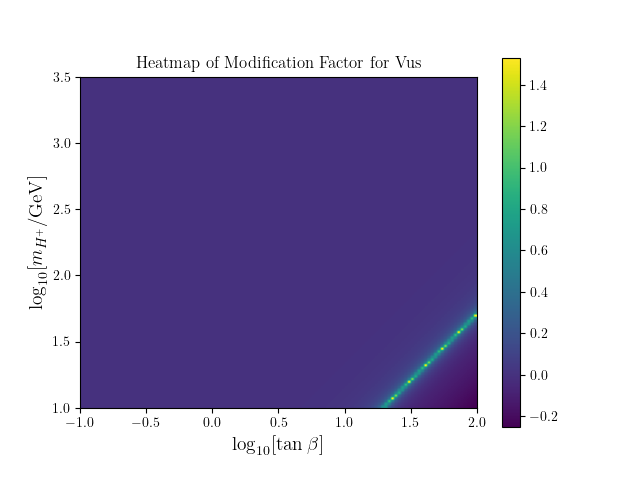
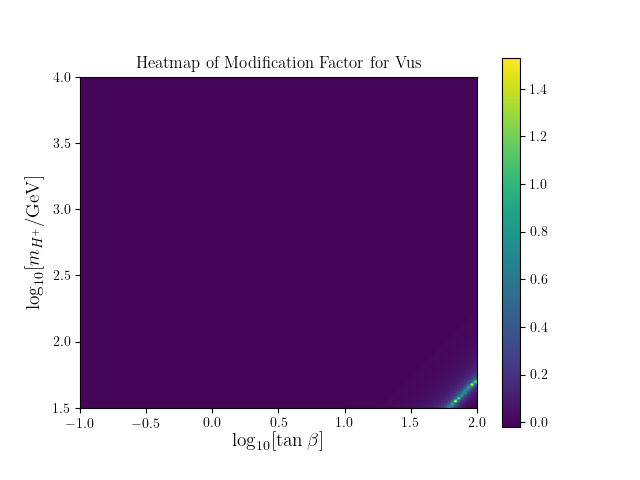
tweaks

diff --git a/ckm_tests/heatmaps/rh_range.py b/ckm_tests/heatmaps/rh_range.py
@@ -82,7 +82,7 @@ def vij_mult(args,ths):
     #array_vs[j,i] = np.average(mod)
     #array_es[j,i] = np.average(mode)
 
-steps = 100
+steps = 120
 
 tanb,mH = np.linspace(-1,2,steps), np.linspace(1.5,4,steps)
 t, h = np.meshgrid(tanb,mH)
@@ -103,30 +103,6 @@ lats = ['$m_{B^+}$','$m_{D^+}$','$m_{D_s}$','$m_{K^+}$',r'$m_{\pi^+}$']
 pngs = ['mB','mD','mDs','mK','mpi']
 heatmap = {}
 errmap = {}
-
-#for m in range(len(mus)):
-#    pool1 = Pool()
-#    data_list = [par[mus[m]],par[mds[m]],par[mms[m]]]#,10**tanb,10**mH]
-#    errs_list = [par,err,mus,mds,mms,m]#tanb,mH,m]
-#    rhth = partial(rh,data_list)
-#    rh_err = partial(errors1,errs_list)
-#    heatmap_i = np.array(pool1.map(rhth,th)).reshape((steps,steps))
-#    heatmap_e = np.array(pool1.map(rh_err,th)).reshape((steps,steps))
-#    pool1.close()
-#    pool1.join()
-#        #        fig_title = r"$\frac{|\tilde{V}_{ij}|}{|V_{ij}|}$ for " + lats[m]
-#        #        fig_name = pngs[m] + "-" + "rH" + str(x) + ".png"
-#        #        print("Range for "+fig_title+" is "+str(np.min(heatmap_i))+" to " +str(np.max(heatmap_i)))
-#    heatmap[pngs[m]] = heatmap_i
-#    errmap[pngs[m]] = heatmap_e
-#
-#        #        fig = plt.figure()
-#        #        s = fig.add_subplot(1,1,1,xlabel=r"$\log_{10}[\tan\beta]$",ylabel=r"$\log_{10}[m_{H^+}]$")
-#        #        im = s.imshow(heatmap_i,extent=(tanb[0],tanb[-1],mH[0],mH[-1]),origin='lower')
-#        #        fig.colorbar(im)
-#        #        plt.title(fig_title)
-#        #        plt.savefig(fig_name)
-#        #        plt.show()
 
 for i in range(len(us)):
     args = [par,err,my_obs[i],steps,ds[i],us[i],1]
@@ -154,12 +130,12 @@ for i in range(len(us)):
     if np.min(np.log10(heatmap_v)) < 0:
         vm = np.min(np.log10(heatmap_v))
 
-#    fig = plt.figure()
-#    s = fig.add_subplot(1,1,1,xlabel=r"$\log_{10}[\tan\beta]$",ylabel=r"$\log_{10}[m_{H^+}/\text{GeV}]$")
-#    im = s.imshow(np.log10(heatmap_v),extent=(tanb[0],tanb[-1],mH[0],mH[-1]),origin='lower',vmin=vm)#,vmax=1)
-#    fig.colorbar(im)
-#    plt.title("Heatmap of Modification Factor for V"+us[i]+ds[i])
-#    plt.savefig("v"+us[i]+ds[i]+"_heatmap4.png")
+    fig = plt.figure()
+    s = fig.add_subplot(1,1,1,xlabel=r"$\log_{10}[\tan\beta]$",ylabel=r"$\log_{10}[m_{H^+}/\text{GeV}]$")
+    im = s.imshow(np.log10(heatmap_v),extent=(tanb[0],tanb[-1],mH[0],mH[-1]),origin='lower',vmin=vm)#,vmax=1)
+    fig.colorbar(im)
+    plt.title("Heatmap of Modification Factor for V"+us[i]+ds[i])
+    plt.savefig("v"+us[i]+ds[i]+"_heatmap4.png")
 
     print("V"+us[i]+ds[i]+" done")
     print(datetime.datetime.now())
@@ -182,11 +158,11 @@ plt.ylabel(r'$\log_{10}[m_{H^+}/\text{GeV}]$')
 plt.savefig("ckm_full_mat7.png")
 #plt.show()
 
-#fig = plt.figure()
-#s = fig.add_subplot(1,1,1,xlabel=r"$\log_{10}[\tan\beta]$",ylabel=r"$\log_{10}[m_{H^+}/\text{GeV}]$")
-#im = s.imshow(-1*units,extent=(tanb[0],tanb[-1],mH[0],mH[-1]),origin='lower',cmap='gray')
-#plt.title("Modification Regions Allowed By Unitarity \n of full CKM Matrix")
-#plt.savefig("ckm_full_mat8.png")
+fig = plt.figure()
+s = fig.add_subplot(1,1,1,xlabel=r"$\log_{10}[\tan\beta]$",ylabel=r"$\log_{10}[m_{H^+}/\text{GeV}]$")
+im = s.imshow(-1*units,extent=(tanb[0],tanb[-1],mH[0],mH[-1]),origin='lower',cmap='gray')
+plt.title("Modification Regions Allowed By Unitarity \n of full CKM Matrix")
+plt.savefig("ckm_full_mat8.png")
 
 print("--- %s seconds ---" % (time.time() - start_time))
 print(datetime.datetime.now())
